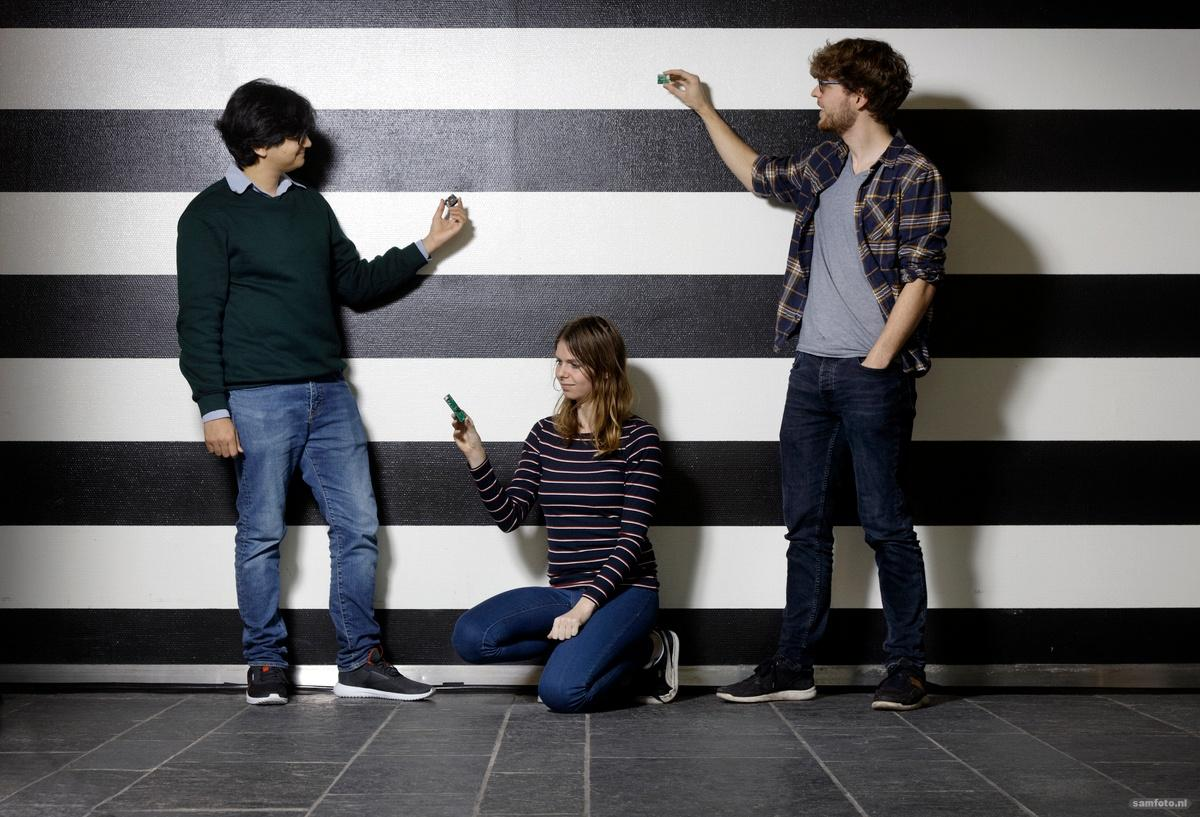
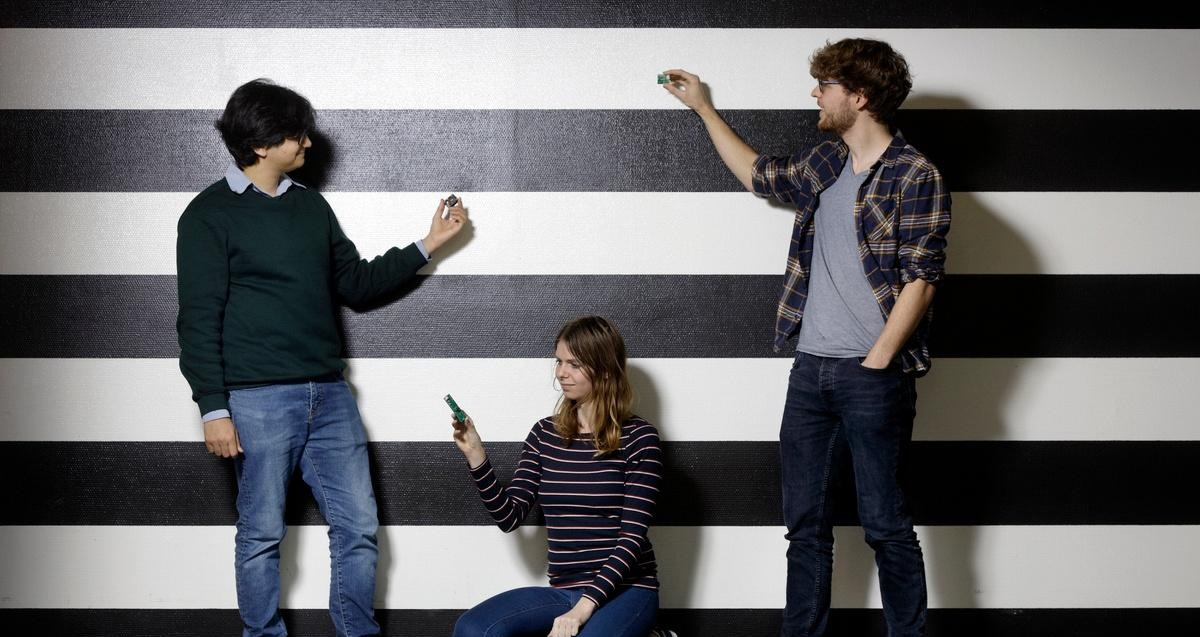
added john to team, reduced news images height, added contact to menu bar

diff --git a/src/App.vue b/src/App.vue
@@ -457,12 +457,13 @@
     data () {
       return {
         drawer: false,
-        email: 'info@ZED-IoT.nl',
+        email: 'info@ZED-IoT.com',
         menu: [
           { text: 'About us', link: '#about-us' },
           { text: 'Features', link: '#features' },
           { text: 'The team', link: '#team' },
-          { text: 'News', link: '#news' }
+          { text: 'News', link: '#news' },
+          { text: 'Contact', link: '#contact' }
         ],
         articles: [
           {
@@ -534,6 +535,11 @@
             image: require('./assets/Niels.jpg'),
             name: 'Ir. N.H. Hokke',
             text: 'Niels, a recent graduate supervised by VP, worked on the topic of batteryless wireless communication in his masters at TU Delft. Instead of starting as a PhD and adding more research papers into an already full archive, Niels instead believes in transforming state of the art research into real life tangible products for the benefit of society. As CEO, Niels is fully focusing all of his time on building up ZED as a vehicle which can move our innovation from the labs of the university onto the industrial factory floor where it can truly make a difference saving time and money for our clients.'
+          },
+          {
+            image: require('./assets/John.jpg'),
+            name: 'Dr. J.E.J. Schmitz',
+            text: 'Dr. John Schmitz recently retired as the dean of the faculty of Electrical Engineering, Mathematics and Computer Science (EEMCS or EWI in Dutch) at the Technical University of Delft. Before this, John was SVP and Chief Intellectual Property Officer of NXP Semiconductors. He is attributed as the co-founder of NXP Semiconductors and has immense technical, scientific and commercial experience. He is advising ZED as honorary president on both technical and commercial aspects where he directs, mentors and guides the team to becoming a successful startup.  '
           },
           {
             image: require('./assets/Suryansh.jpg'),
